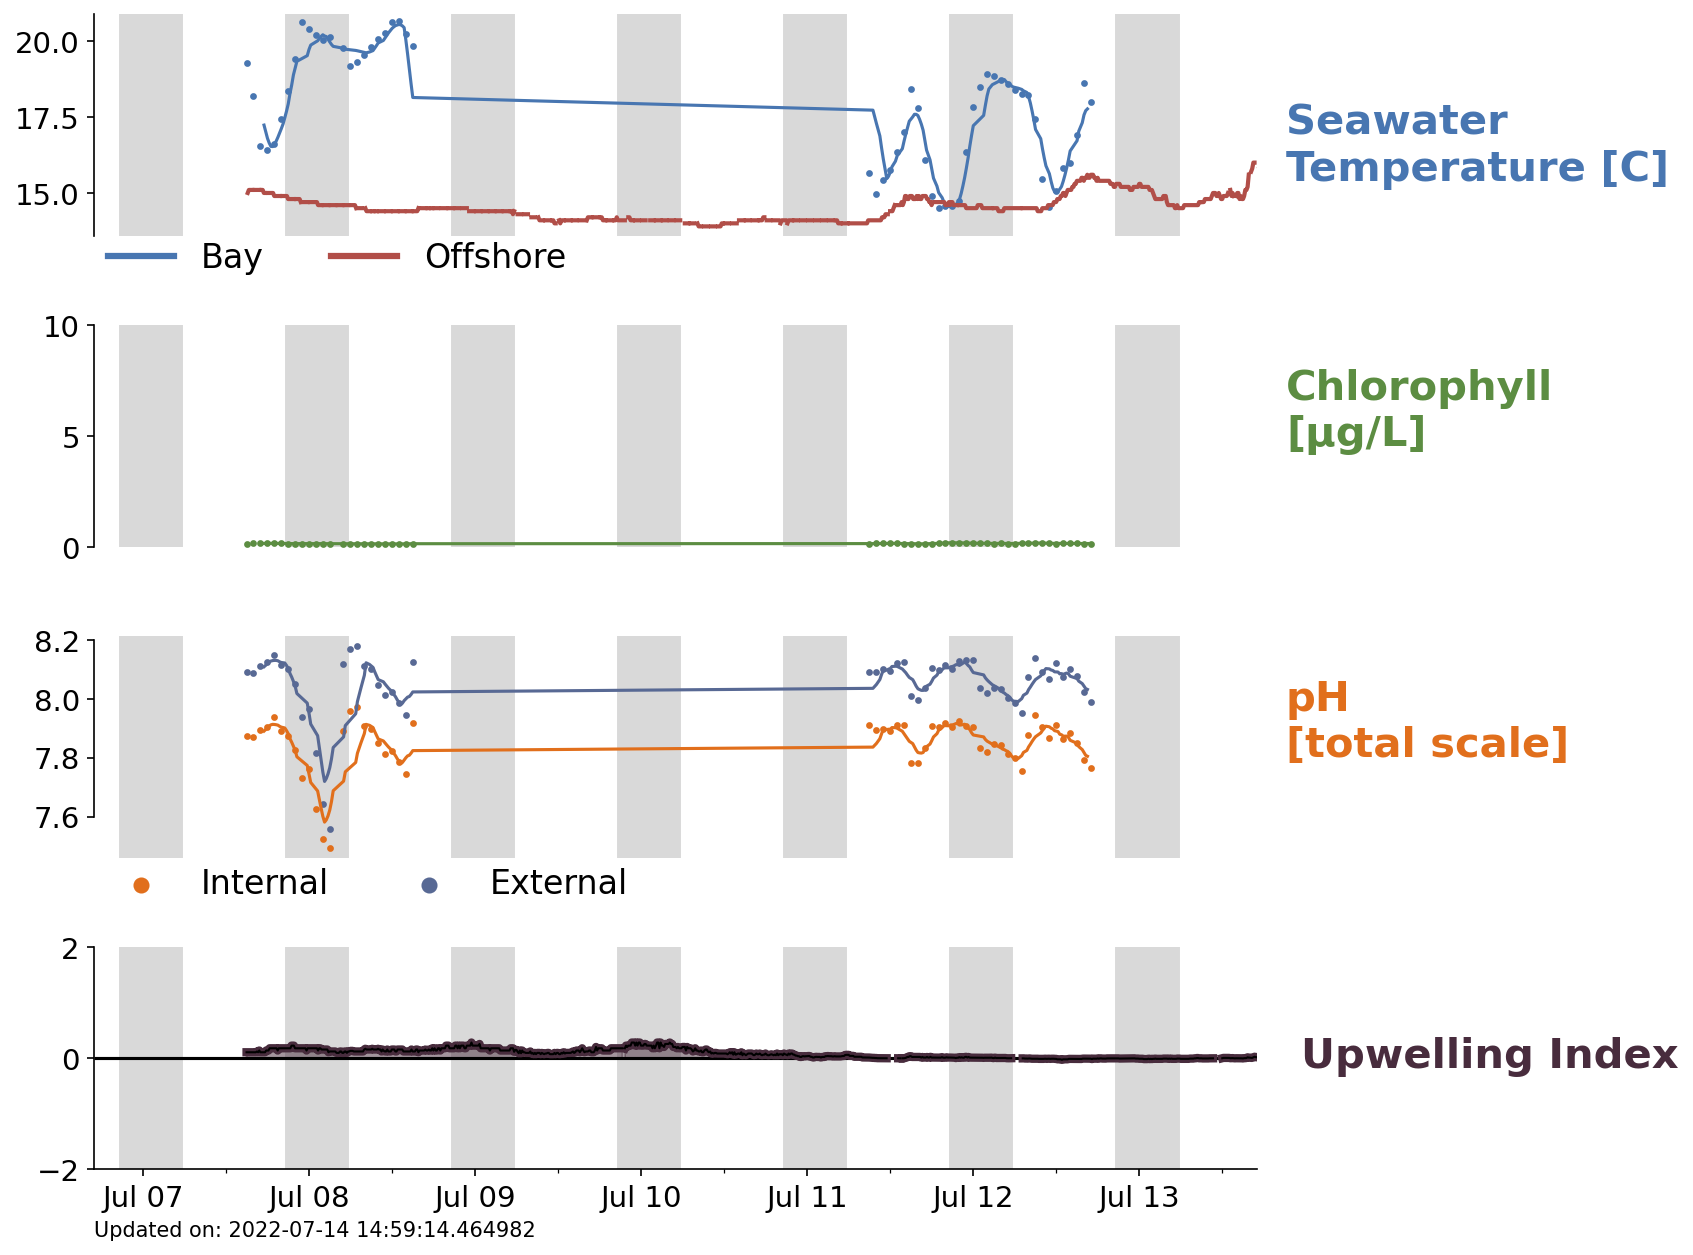
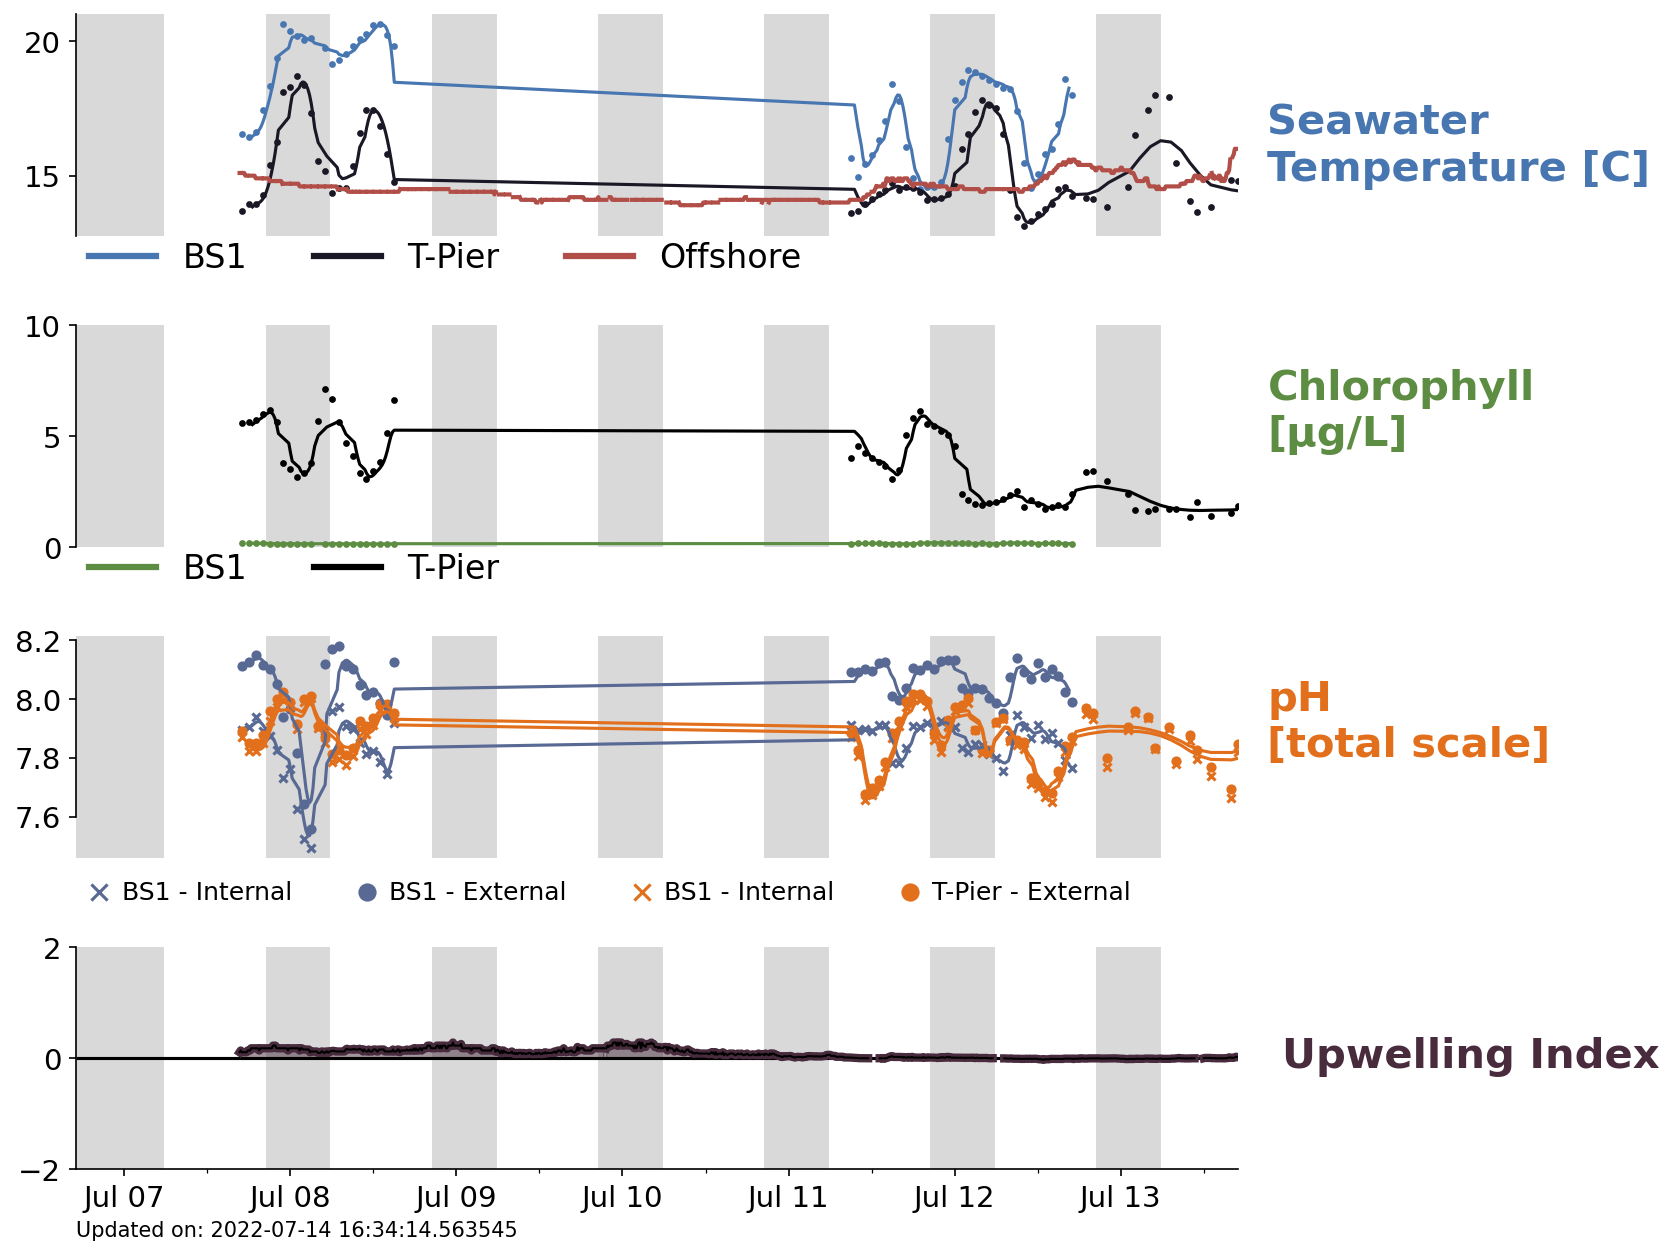
Added the T-pier data

diff --git a/morro-oyster-proto.py b/morro-oyster-proto.py
@@ -16,9 +16,14 @@ for handler in logging.root.handlers[:]:
 logging.basicConfig(filename='./oyster.log', level=logging.ERROR)
 
 
-def get_shore_station_data():
+def get_shore_station_data(back_bay=False):
     '''Get shore station data from the CeNCOOS ERDDAP'''
-    url = "http://erddap.cencoos.org/erddap/tabledap/morro-bay-bs1.csvp?time%2Cmass_concentration_of_chlorophyll_in_sea_water%2Cmass_concentration_of_oxygen_in_sea_water%2Cfractional_saturation_of_oxygen_in_sea_water%2Csea_water_practical_salinity%2Csea_water_temperature%2Csea_water_turbidity%2Csea_water_ph_reported_on_total_scale_internal%2Csea_water_ph_reported_on_total_scale_external&time>now-7days"
+    if back_bay:
+        url = "http://erddap.cencoos.org/erddap/tabledap/morro-bay-bs1.csvp?time%2Cmass_concentration_of_chlorophyll_in_sea_water%2Cmass_concentration_of_oxygen_in_sea_water%2Cfractional_saturation_of_oxygen_in_sea_water%2Csea_water_practical_salinity%2Csea_water_temperature%2Csea_water_turbidity%2Csea_water_ph_reported_on_total_scale_internal%2Csea_water_ph_reported_on_total_scale_external&time>now-7days"
+
+    else:
+        url = "http://erddap.cencoos.org/erddap/tabledap/edu_calpoly_marine_morro.csvp?time%2Cmass_concentration_of_chlorophyll_in_sea_water%2Cmass_concentration_of_oxygen_in_sea_water%2Cfractional_saturation_of_oxygen_in_sea_water%2Csea_water_practical_salinity%2Csea_water_temperature%2Csea_water_turbidity%2Csea_water_ph_reported_on_total_scale_internal%2Csea_water_ph_reported_on_total_scale_external&time>now-7days"
+    
     headers= ['time','chlorophyll','oxygen_conc','oxygen_frac','salinity','swtemp','turbidity','pH_internal','pH_external']
     try:
         df = pd.read_csv(url, names=headers,skiprows=1)
@@ -26,8 +31,7 @@ def get_shore_station_data():
         df.index = df['dateTime']
         df = df.tz_convert('US/Pacific')
         df_hourly = df.resample('1H').mean()
-        df_rolling = df[["chlorophyll","oxygen_conc","oxygen_frac","salinity","swtemp","turbidity","pH_internal","pH_external"]].rolling(window=12,center=True,win_type='boxcar').mean()
-        df_hourly.tail()
+        df_rolling = df[["chlorophyll","oxygen_conc","oxygen_frac","salinity","swtemp","turbidity","pH_internal","pH_external"]].rolling(window=12,center=True,win_type='hamming').mean()
         return df, df_hourly, df_rolling
     except urllib.error.HTTPError:
         logging.error("Trouble reaching the CeNCOOS ERDDAP",exc_info=True)
@@ -59,11 +63,10 @@ def process_wind(wind_df):
     ekman = (-1/0.935)*v # 1/coriolis parameter
     return(ekman)
 
-def get_sunset_sunrise(df):
+def get_sunset_sunrise(days=7):
     """Using the `astral` api package we can request sunrise and sunset times for humboldt to use for shading the plots."""
 
-    days = 7
-    stime = df['dateTime'].max()
+    stime = dt.date.today()
     etime = stime - dt.timedelta(days=days)
     obs = Observer(latitude=35.339658, longitude=-120.850287,elevation=0)
     sunrise = []
@@ -80,10 +83,11 @@ def add_nighttime(ax,sunrise,sunset,stime,etime):
     return ax
 
 def generate_plot():
-    df, df_hourly, df_rolling = get_shore_station_data()
-    if df is not None:
+    df_backbay, df_hourly_backbay, df_rolling_backbay = get_shore_station_data(back_bay=True)
+    df_forebay, df_hourly_forebay, df_rolling_forebay = get_shore_station_data(back_bay=False)
+    if df_backbay is not None:
         wind_df = get_wind_data()
-        sunset, sunrise = get_sunset_sunrise(df)
+        sunset, sunrise = get_sunset_sunrise(days=7)
         # stime = df.index.max() + dt.timedelta(hours=1)
         stime = dt.date.today()
         etime = stime - dt.timedelta(days=7)
@@ -91,8 +95,11 @@ def generate_plot():
         fig.set_size_inches(10,10)
 
         ax_temp = add_nighttime(ax_temp,sunrise,sunset,stime,etime)
-        ax_temp.scatter(df_hourly.index,df_hourly['swtemp'],s=5,c='#4876B1')
-        ax_temp.plot(df_rolling.index,df_rolling['swtemp'],color='#4876B1',label='Bay')
+        ax_temp.scatter(df_hourly_backbay.index,df_hourly_backbay['swtemp'], s=5, c='#4876B1')
+        ax_temp.plot(df_rolling_backbay.index,df_rolling_backbay['swtemp'], color='#4876B1', label='BS1')
+        
+        ax_temp.scatter(df_hourly_forebay.index,df_hourly_forebay['swtemp'], s=5, c='#1B1725')
+        ax_temp.plot(df_rolling_forebay.index,df_rolling_forebay['swtemp'], color='#1B1725', label='T-Pier')
         if wind_df is not None:
             ekman = process_wind(wind_df)
             ax_temp.plot(wind_df.index, wind_df['wtemp_offshore'],color='#B14E48',lw=2,label='Offshore')
@@ -106,17 +113,23 @@ def generate_plot():
         ax_temp.set_ylabel('Seawater\nTemperature [C]',rotation=0,labelpad=0,size=20,color='#4876B1',fontweight='bold', horizontalalignment='left')
         ax_temp.tick_params(axis='y', labelsize=14)
         # leg = ax_temp.legend(frameon=True,loc='best',fontsize=16)
-        leg = ax_temp.legend(ncol=2,frameon=False, fontsize=16, loc=(.0,-.23),markerscale=3, labelspacing=1)
+        leg = ax_temp.legend(ncol=3,frameon=False, fontsize=16, loc=(.0,-.23),markerscale=3, labelspacing=1)
         for legobj in leg.legendHandles:
             legobj.set_linewidth(3.0)
 
 
         ax_chl = add_nighttime(ax_chl,sunrise,sunset,stime,etime)
-        ax_chl.scatter(df_hourly.index,df_hourly['chlorophyll'],s=5,c='#5C8D42')
-        ax_chl.plot(df_rolling.index,df_rolling['chlorophyll'], color='#5C8D42')
-        if df_rolling['chlorophyll'].max() < 10:
+        ax_chl.scatter(df_hourly_backbay.index, df_hourly_backbay['chlorophyll'],s=5,c='#5C8D42')
+        ax_chl.plot(df_rolling_backbay.index, df_rolling_backbay['chlorophyll'], color='#5C8D42', label='BS1')
+        ax_chl.scatter(df_hourly_forebay.index, df_hourly_forebay['chlorophyll'],s=5,c='k')
+        ax_chl.plot(df_rolling_forebay.index, df_rolling_forebay['chlorophyll'], color='k', label='T-Pier')
+        if df_rolling_backbay['chlorophyll'].max() < 10:
             ax_chl.set_ylim(0,10)
         
+        leg = ax_chl.legend(ncol=3,frameon=False, fontsize=16, loc=(.0,-.23),markerscale=3, labelspacing=1)
+        for legobj in leg.legendHandles:
+            legobj.set_linewidth(3.0)
+
         ax_chl.yaxis.set_label_coords(1.025,.42)
         ax_chl.get_xaxis().set_visible(False)
         ax_chl.set_ylabel('Chlorophyll\n[μg/L]',rotation=0,labelpad=90,size=20,color='#5C8D42',fontweight='bold', horizontalalignment='left')
@@ -125,11 +138,17 @@ def generate_plot():
         
 
         ax_ph = add_nighttime(ax_ph,sunrise,sunset,stime,etime)
-        ax_ph.scatter(df_hourly.index,df_hourly['pH_internal'],s=5,c='#E16F1C',label='Internal')
-        ax_ph.plot(df_rolling.index,df_rolling['pH_internal'], color='#E16F1C')
-        ax_ph.scatter(df_hourly.index,df_hourly['pH_external'],s=5,c='#586994',label='External')
-        ax_ph.plot(df_rolling.index,df_rolling['pH_external'], color='#586994')
-        ax_ph.legend(ncol=2,frameon=False, fontsize=16, loc=(.0,-.25),markerscale=3, labelspacing=1)
+        ax_ph.scatter(df_hourly_backbay.index, df_hourly_backbay['pH_internal'],s=15,marker='x' ,c='#586994',label='BS1 - Internal') #E16F1C
+        ax_ph.plot(df_rolling_backbay.index, df_rolling_backbay['pH_internal'], color='#586994')
+        ax_ph.scatter(df_hourly_backbay.index, df_hourly_backbay['pH_external'],s=15,c='#586994',label='BS1 - External')
+        ax_ph.plot(df_rolling_backbay.index, df_rolling_backbay['pH_external'], color='#586994')
+
+        ax_ph.scatter(df_hourly_forebay.index, df_hourly_forebay['pH_internal'],s=15,marker='x' ,c='#E16F1C',label='BS1 - Internal') #E16F1C
+        ax_ph.plot(df_rolling_forebay.index, df_rolling_forebay['pH_internal'], color='#E16F1C')
+        ax_ph.scatter(df_hourly_forebay.index, df_hourly_forebay['pH_external'],s=15,c='#E16F1C',label='T-Pier - External')
+        ax_ph.plot(df_rolling_forebay.index, df_rolling_forebay['pH_external'], color='#E16F1C')
+
+        ax_ph.legend(ncol=4,frameon=False, fontsize=12, loc=(-.01,-.25),markerscale=2, handletextpad=-0.1)
         
         # ax_ph.set_ylim(7.5,8.3)
         ax_ph.get_xaxis().set_visible(False)
